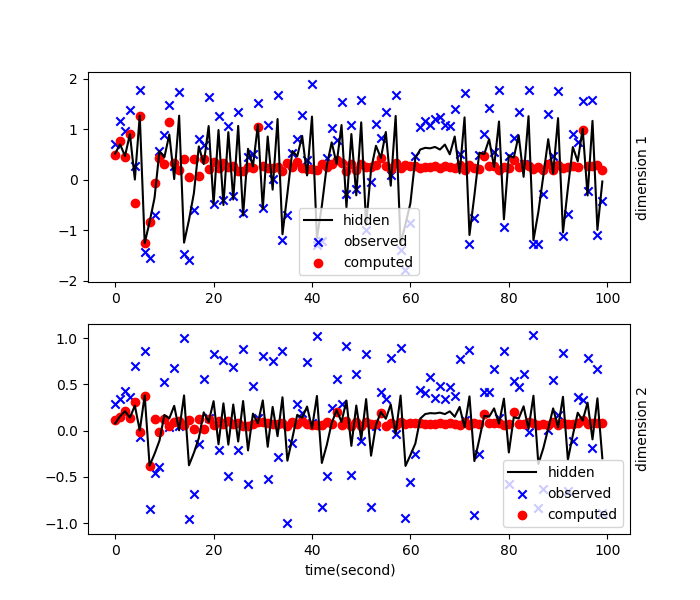
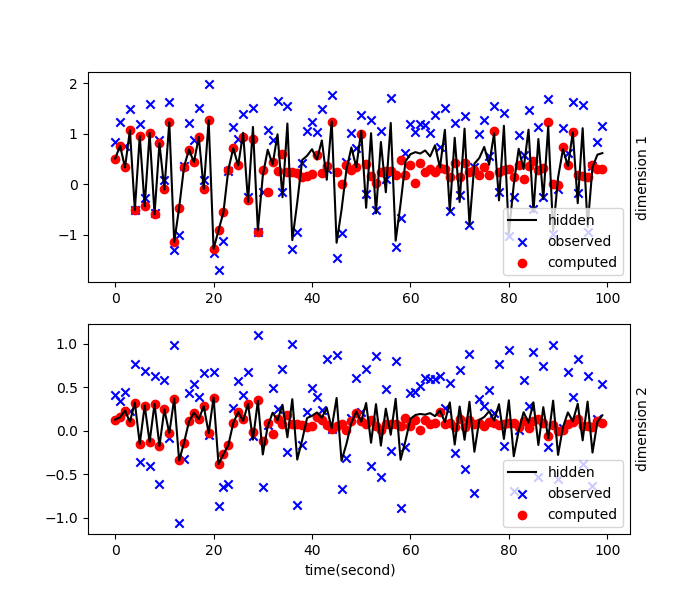
model6 tested

diff --git a/python/experiments/AttractorPF/apf6.py b/python/experiments/AttractorPF/apf6.py
@@ -14,25 +14,25 @@ import scipy
 import utility as ut
 import matplotlib.pyplot as plt
 import plot
-import model5
+import model6
 import attract as atr
 """
 Generate paths
 """
 s = int(sys.argv[1])
-model, a, b = model5.model(size = s)
-hidden_path = model5.gen_path(length = s)
+model, a, b = model6.model(size = s)
+hidden_path = model.hidden_state.generate_path()
 observed_path = model.observation.generate_path(hidden_path)
 """
 Solution using an attractor particle filter
 """
-db_path = str(script_path.parent.parent.parent) + '/data/henon_attractor.h5' #_14_3_large
+db_path = str(script_path.parent.parent.parent) + '/data/henon_attractor_14_3_large.h5'
 attractor_sampler = atr.AttractorSampler(db_path = db_path)
-apf = fl.AttractorPF(model, particle_count = 50, attractor_sampler = attractor_sampler)
+apf = fl.AttractorPF(model, particle_count = 500, attractor_sampler = attractor_sampler)
 apf.update(observed_path, threshold_factor = 0.1, method = 'mean')
 
 # plot trajectories
-model = 'model5'
+model = 'model6'
 image_dir = str(script_path.parent.parent.parent) + '/images/AttractorPF/'
 apf.plot_trajectories(hidden_path, coords_to_plot = [0, 1], show = True, file_path = image_dir + '{}_trajectories.png'.format(model))
 apf.compute_error(hidden_path)

diff --git a/python/models/model6.py b/python/models/model6.py
@@ -16,21 +16,13 @@ import plot as plot
 """
 A 2D non-linear problem (Henon map)
 """
-# Create a deterministic Markov chain
-a, b, eps  = 1.4, 0.3, 0.0
+# Create a Markov chain
+a, b, eps  = 0.5, 0.1, 0.0
 mu, id, zero =  np.zeros(2), np.identity(2), np.zeros(2)
-x0 = (0.5086958043266177, 0.126731276358114)
-prior = sm.Simulation(algorithm = lambda *args: np.random.multivariate_normal(x0, 0.0000000001*id))
+prior = sm.Simulation(algorithm = lambda *args: np.random.multivariate_normal((0.5086958043266177, 0.126731276358114), 0.001*id))
 process_noise = sm.Simulation(algorithm = lambda *args: np.random.multivariate_normal(mu, eps*id))
 func_h = lambda k, x, noise: np.array([1.0 - a*x[0]**2 + x[1], b*x[0]]) + noise
 conditional_pdf_h = lambda k, x, past: scipy.stats.multivariate_normal.pdf(x, mean = func_h(k, past, zero), cov = eps*id)
-def gen_path(length):
-    path = np.zeros((length, 2), dtype = 'float64')
-    x = x0
-    for i in range(length):
-        path[i] = x
-        x = func_h(i, x, zero)
-    return path
 
 # Define the observation model
 delta = 0.01
